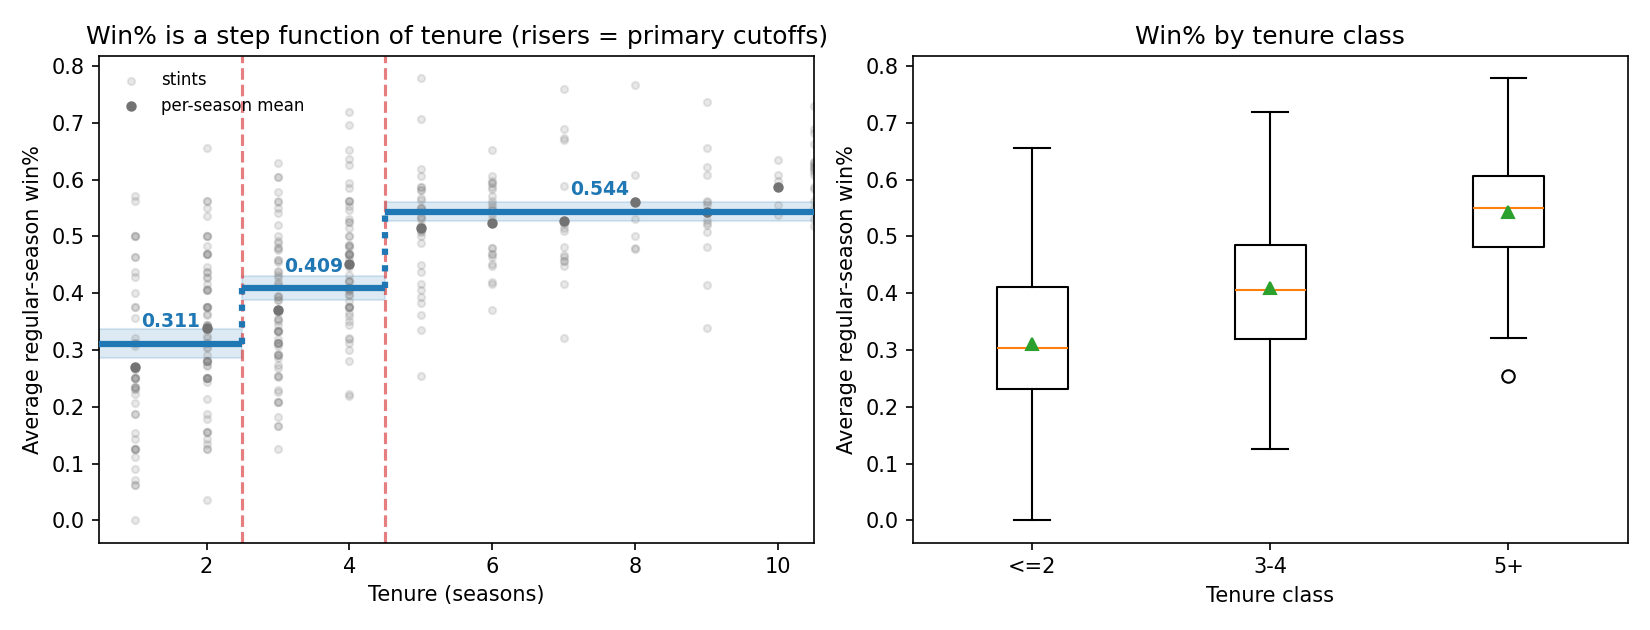
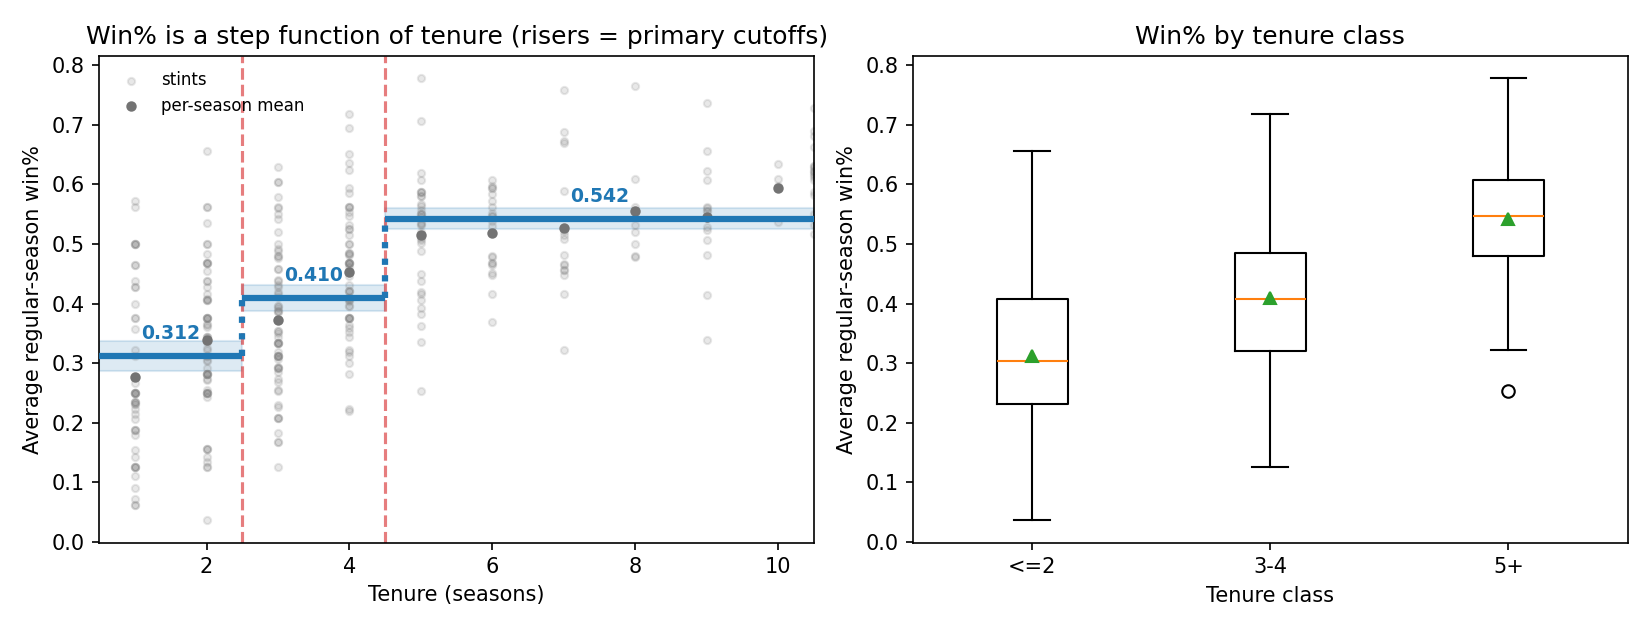
Finalize JQAS survival submission: archive legacy ordinal paper, add internal-hire audit probe, refresh submission docs, untrack build artifacts

diff --git a/scripts/audit_internal_hire.py b/scripts/audit_internal_hire.py
@@ -1,0 +1,147 @@
+"""Validation probe for cf_internal_hire (the paper's headline predictor).
+
+Two independent checks:
+  (A) Re-derive an internal-hire flag for every stint using a nickname-based
+      franchise normalizer that does NOT share canon_employer's abbr+standardize
+      path, then diff against the stored cf_internal_hire. Disagreements are the
+      relocation/rename edge cases (or bugs) to inspect by hand.
+  (B) Curated ground-truth: known internal-promotion vs external hires.
+
+Run: python scripts/audit_internal_hire.py
+"""
+import os
+import sys
+import pandas as pd
+
+ROOT = os.path.dirname(os.path.dirname(os.path.abspath(__file__)))
+sys.path.insert(0, ROOT)
+sys.path.insert(0, os.path.join(ROOT, "scripts", "data"))
+
+from engineer_career_features import classify_role, is_nfl  # noqa: E402
+
+COACHES_DIR = os.path.join(ROOT, "Coaches")
+
+# Independent franchise key: collapse a full team name to a single stable
+# nickname token, applying relocation/rename aliases so one franchise == one key.
+# This deliberately avoids canon_employer's learned name->abbr map + year
+# standardization, so agreement is real corroboration.
+_ALIAS = {
+    "oilers": "titans",
+    "redskins": "commanders",
+    "football": "commanders",   # "Washington Football Team"
+}
+
+
+def nick_key(employer, level):
+    name = str(employer).strip().lower()
+    if not is_nfl(level):
+        return ("col:" if "College" in str(level) else "oth:") + name
+    if "football team" in name:
+        return "nfl:commanders"
+    toks = name.replace(".", "").split()
+    nick = toks[-1] if toks else name
+    return "nfl:" + _ALIAS.get(nick, nick)
+
+
+def load_hist(coach):
+    p = os.path.join(COACHES_DIR, coach, "all_coaching_history.csv")
+    if not os.path.exists(p):
+        return None
+    df = pd.read_csv(p)
+    df["Year"] = pd.to_numeric(df["Year"], errors="coerce")
+    return df.dropna(subset=["Year"])
+
+
+def hiring_nick(hist, hire_year):
+    """Nickname key of the franchise this coach was hired by (mirror engineer's
+    HC-row selection, but normalize via nick_key)."""
+    rows = hist[hist["Year"] == hire_year]
+    for _, r in rows.iterrows():
+        if classify_role(r.get("Role", "")) == "HC":
+            return nick_key(r.get("Employer", ""), r.get("Level", ""))
+    if len(rows):
+        return nick_key(rows.iloc[0].get("Employer", ""), rows.iloc[0].get("Level", ""))
+    return None
+
+
+def prior_nicks(hist, hire_year):
+    """Nickname keys for all coaching roles in season hire_year-1."""
+    rows = hist[hist["Year"] == hire_year - 1]
+    keys = set()
+    for _, r in rows.iterrows():
+        if classify_role(r.get("Role", "")) != "NONE":
+            keys.add(nick_key(r.get("Employer", ""), r.get("Level", "")))
+    return keys
+
+
+def main():
+    md = pd.read_csv(os.path.join(ROOT, "data", "master_data.csv"), index_col=0)
+    md = md.rename(columns={"Coach Name": "coach", "Year": "year"})
+    n_internal = int(md["cf_internal_hire"].sum())
+    print(f"Stints: {len(md)}   stored cf_internal_hire==1: {n_internal} "
+          f"({100*n_internal/len(md):.1f}%)\n")
+
+    mismatches, missing_hist, internal_rows = [], [], []
+    for _, row in md.iterrows():
+        coach, yr = row["coach"], int(row["year"])
+        stored = int(row["cf_internal_hire"])
+        hist = load_hist(coach)
+        if hist is None:
+            missing_hist.append(coach)
+            continue
+        hk = hiring_nick(hist, yr)
+        indep = int(hk in prior_nicks(hist, yr)) if hk else 0
+        if indep != stored:
+            mismatches.append((coach, yr, stored, indep, hk,
+                               sorted(prior_nicks(hist, yr))))
+        if stored == 1:
+            internal_rows.append((coach, yr, hk, int(row["cf_years_at_hiring_org"])))
+
+    print(f"=== (A) Independent nickname re-derivation vs stored ===")
+    print(f"Agreements: {len(md)-len(mismatches)-len(missing_hist)} / {len(md)}"
+          f"   mismatches: {len(mismatches)}   missing history: {len(missing_hist)}")
+    if missing_hist:
+        print("  missing history files:", missing_hist)
+    for coach, yr, stored, indep, hk, pk in mismatches:
+        print(f"  MISMATCH {coach} {yr}: stored={stored} indep={indep} "
+              f"hiring={hk} prior_season_keys={pk}")
+
+    print(f"\n=== All {len(internal_rows)} stored internal hires "
+          f"(coach, year, franchise, yrs_at_org) ===")
+    for coach, yr, hk, yrs in sorted(internal_rows, key=lambda t: t[1]):
+        print(f"  {yr}  {coach:<22} {hk:<18} yrs_at_org={yrs}")
+
+    # (B) curated ground truth -------------------------------------------------
+    # expected internal promotions (was on staff the prior season)
+    GT = {
+        ("Mike Tomlin", 2007): 0,        # from Vikings DC -> Steelers
+        ("Bill Belichick", 2000): 0,     # from Jets -> Patriots
+        ("Andy Reid", 1999): 0,          # from Packers -> Eagles
+        ("Pete Carroll", 2010): 0,       # from USC -> Seahawks
+        ("Sean McVay", 2017): 0,         # from Washington OC -> Rams
+        ("Kyle Shanahan", 2017): 0,      # from Falcons OC -> 49ers
+        ("Mike McCarthy", 2006): 0,      # from 49ers OC -> Packers
+        ("Jason Garrett", 2011): 1,      # Cowboys interim 2010 -> permanent
+        ("Mike Munchak", 2011): 1,       # Titans OL coach -> HC
+        ("Raheem Morris", 2009): 1,      # Buccaneers DC -> HC
+        ("Frank Reich", 2018): 0,        # Eagles OC -> Colts (external)
+        ("Doug Pederson", 2016): 0,      # Chiefs OC -> Eagles (external)
+        ("Anthony Lynn", 2017): 0,       # Bills interim/OC -> Chargers (external)
+        ("Dan Quinn", 2015): 0,          # Seahawks DC -> Falcons (external)
+        ("Zac Taylor", 2019): 0,         # Rams QB coach -> Bengals (external)
+    }
+    print("\n=== (B) Curated ground-truth checks ===")
+    bad = 0
+    idx = {(r["coach"], int(r["year"])): int(r["cf_internal_hire"])
+           for _, r in md.iterrows()}
+    for (coach, yr), exp in GT.items():
+        got = idx.get((coach, yr))
+        tag = "n/a (not in sample)" if got is None else ("OK" if got == exp else "*** WRONG ***")
+        if got is not None and got != exp:
+            bad += 1
+        print(f"  {coach:<18} {yr}: expected={exp} got={got}  {tag}")
+    print(f"\nGround-truth failures: {bad}")
+
+
+if __name__ == "__main__":
+    main()